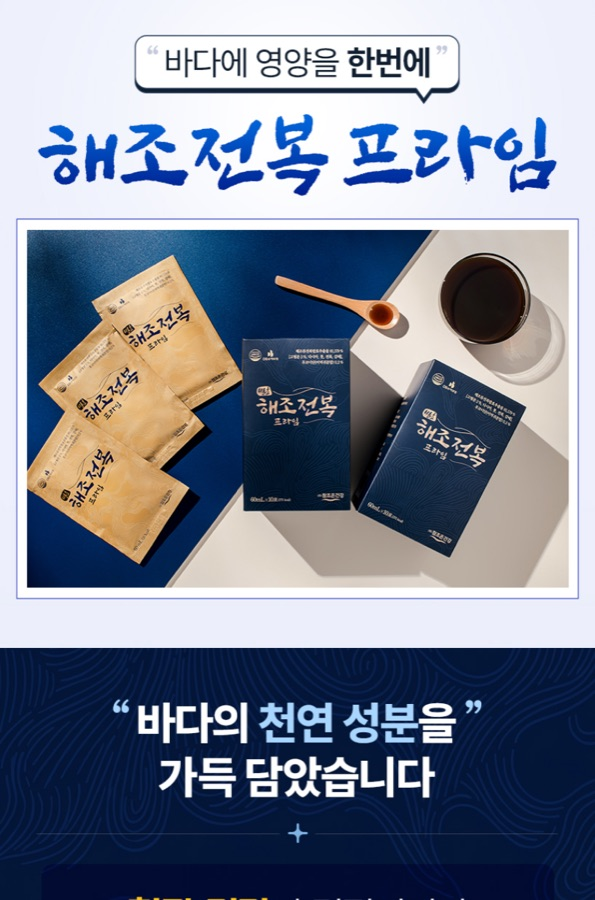
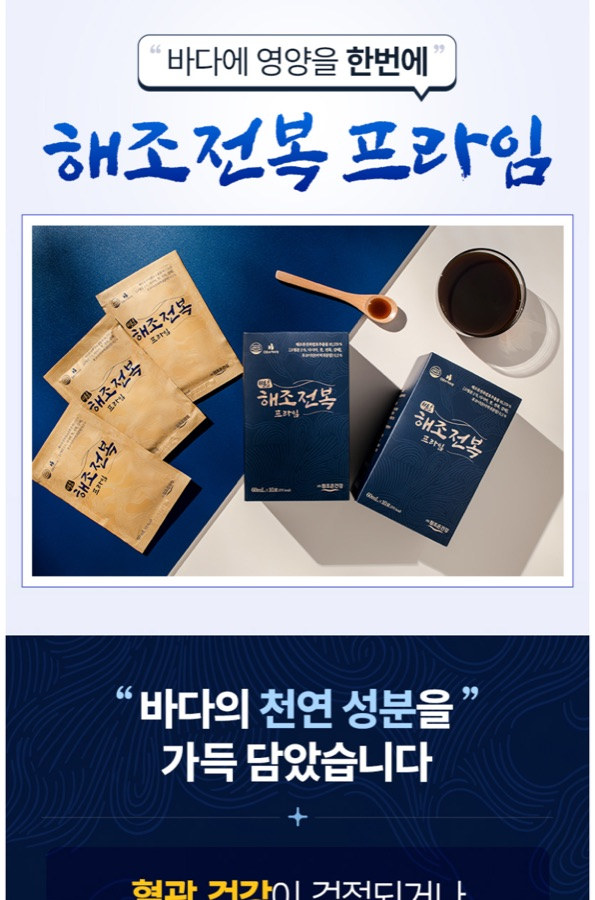
Add seaweed landing B, recapture A with original styles

Changed region(s): [[0.0, 0.0311, 0.9983, 0.6533], [0.0, 0.6844, 1.0, 1.0], [0.2118, 0.9644, 0.7866, 1.0]]

diff --git a/script.js b/script.js
@@ -23,7 +23,7 @@
       year: "루미너스아이즈 · Landing Page",
       title: "상품 랜딩페이지",
       desc: "상품 판매를 위한 랜딩페이지를 디자인하고 제작했습니다. 광고소재와 같은 톤으로 이어지도록 구성해, 광고를 보고 들어온 고객이 자연스럽게 구매로 이어지게 했습니다.",
-      spec: { 역할: "디자인 · 제작", 도구: "Photoshop, Illustrator, VS Code", 결과물: "건강식품·뷰티 랜딩페이지 12종 (모바일)" },
+      spec: { 역할: "디자인 · 제작", 도구: "Photoshop, Illustrator, VS Code", 결과물: "건강식품·뷰티 랜딩페이지 13종 (모바일)" },
       url: "#",
       // 랜딩 추가: works/landing/shots/에 캡처를 넣고 한 줄씩 추가 (brand가 같으면 한 묶음으로 표시)
       gallery: [
@@ -39,6 +39,7 @@
         { brand: "아이클타임", title: "A", src: "works/landing/shots/icletime-01.jpg" },
         { brand: "아이클타임", title: "B", src: "works/landing/shots/icletime-02.jpg" },
         { brand: "해조전복프라임", title: "A", src: "works/landing/shots/fucoidan-01.jpg" },
+        { brand: "해조전복프라임", title: "B", src: "works/landing/shots/fucoidan-02.jpg" },
       ],
     },
   };

diff --git a/index.html b/index.html
@@ -143,7 +143,7 @@
           <div class="card-info">
             <div>
               <h3><button class="card-link" data-project="landing" aria-haspopup="dialog">상품 랜딩페이지</button></h3>
-              <p>건강식품·뷰티 상품 판매용 랜딩페이지 디자인 및 제작 · 7개 브랜드 12종</p>
+              <p>건강식품·뷰티 상품 판매용 랜딩페이지 디자인 및 제작 · 7개 브랜드 13종</p>
             </div>
             <span class="card-meta">Photoshop · Illustrator · VS Code</span>
           </div>
